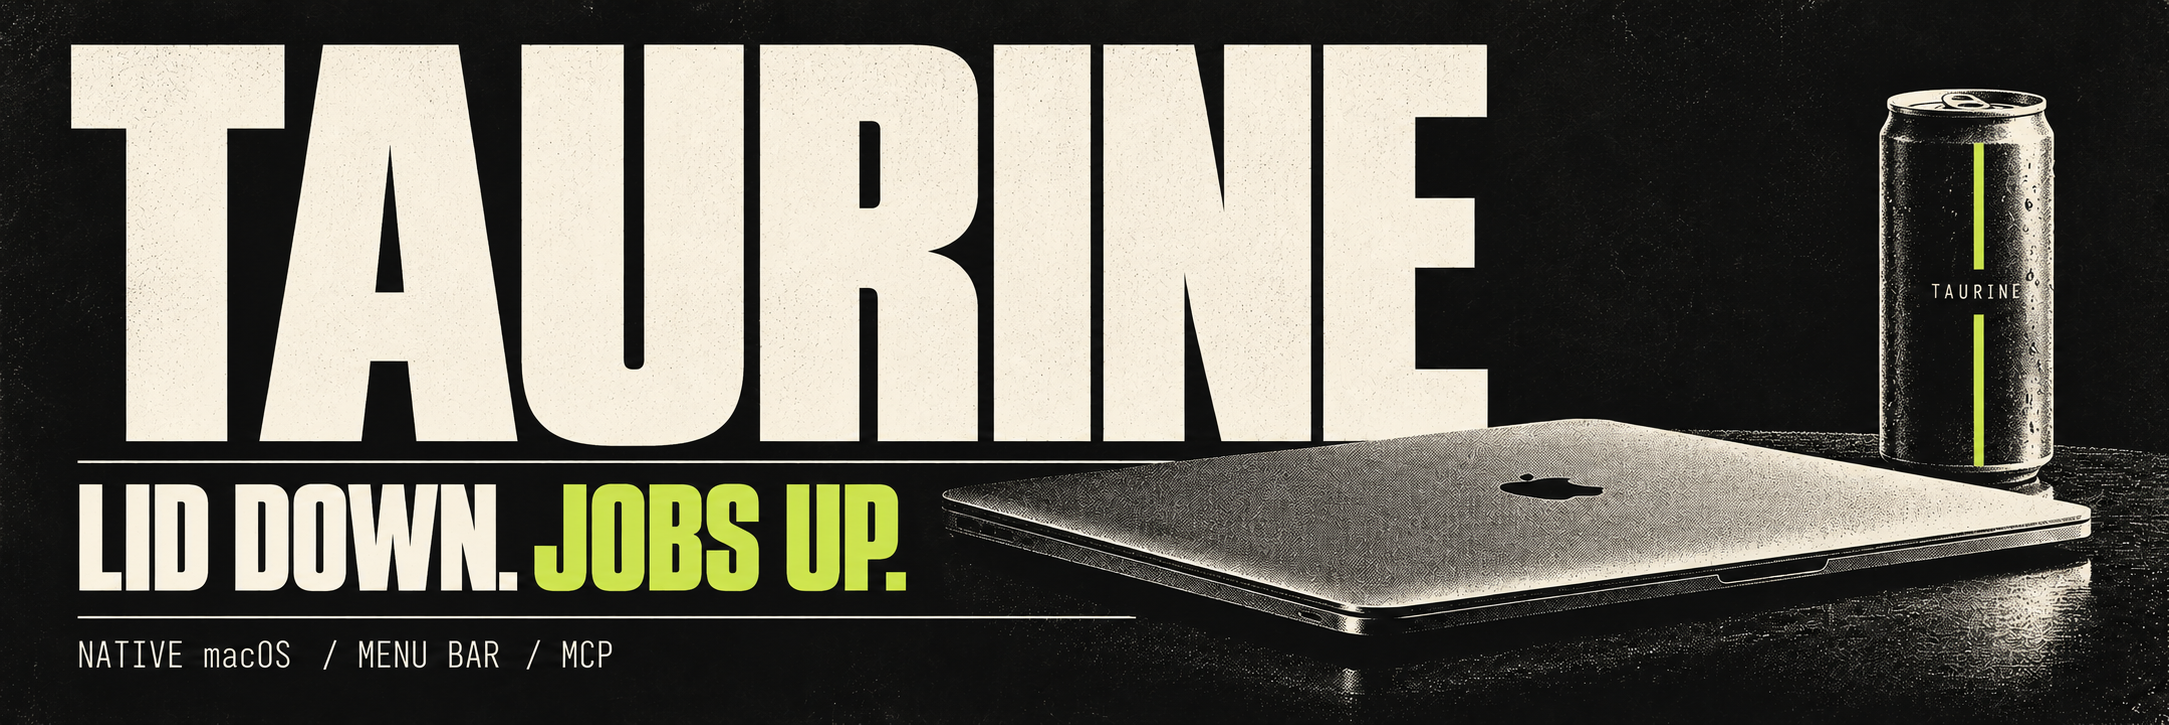
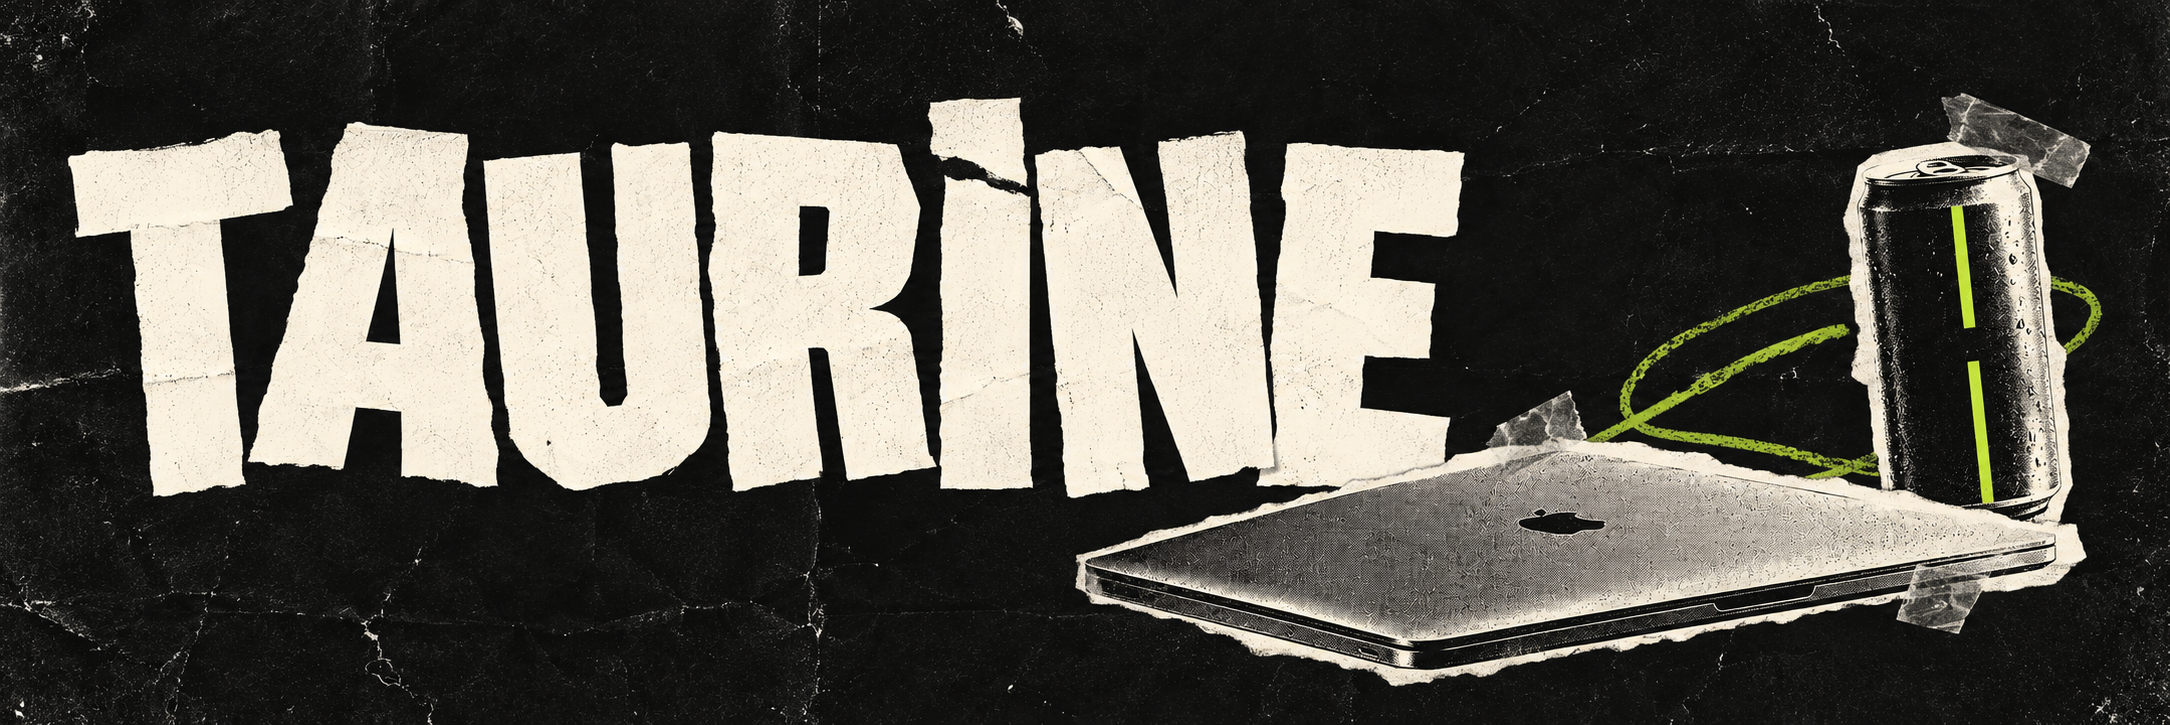
Loosen up the README and drop the tagline

diff --git a/README.md b/README.md
@@ -1,56 +1,29 @@
-<p align="center">
-  <img src="docs/assets/banner.png" alt="TAURINE — Lid down. Jobs up." width="100%" />
-</p>
+![taurine](docs/assets/banner.png)
 
-<p align="center">
-  <a href="https://github.com/christianfurr/taurine/actions/workflows/checks.yml"><img src="https://github.com/christianfurr/taurine/actions/workflows/checks.yml/badge.svg" alt="Build and tests" /></a>
-  <img src="https://img.shields.io/badge/macOS-13%2B-191919?style=flat-square&logo=apple&logoColor=F3F0DF" alt="macOS 13 or later" />
-  <img src="https://img.shields.io/badge/Swift-native-F05138?style=flat-square&logo=swift&logoColor=white" alt="Native Swift" />
-  <img src="https://img.shields.io/badge/MCP-3_tools-D3EE42?style=flat-square&labelColor=191919&color=D3EE42" alt="Three MCP tools" />
-  <img src="https://img.shields.io/badge/Codex-skill_ready-D3EE42?style=flat-square&labelColor=191919&color=D3EE42" alt="Codex skill included" />
-</p>
+[![checks](https://github.com/christianfurr/taurine/actions/workflows/checks.yml/badge.svg)](https://github.com/christianfurr/taurine/actions/workflows/checks.yml)
+![macOS 13+](https://img.shields.io/badge/macOS-13%2B-191919?style=flat-square&logo=apple&logoColor=white)
+![swift](https://img.shields.io/badge/swift-native-F05138?style=flat-square&logo=swift&logoColor=white)
+![mcp](https://img.shields.io/badge/mcp-included-D3EE42?style=flat-square&labelColor=191919)
 
-<p align="center">
-  <b>Your laptop gets to close. Your agents are still on the clock.</b><br />
-  A native macOS menu bar app for keeping your Mac awake with the lid down.<br />
-  Named after the energy drink ingredient. Built for the one-more-task industrial complex.
-</p>
+wanted to close my macbook and still have codex running on it. so i made this little menu bar app that keeps it awake.
 
-<p align="center">
-  <a href="https://github.com/christianfurr/taurine/releases/latest"><b>Download</b></a> ·
-  <a href="#build-it-yourself">Build it yourself</a> ·
-  <a href="#give-your-agent-the-switch">MCP + skill</a> ·
-  <a href="docs/OPERATIONS.md">Under the hood</a>
-</p>
+named after the stuff in energy drinks.
 
----
+click the lightning bolt, turn it on, approve the macOS prompt. then you can close the lid and keep working remotely. the screen can turn off and the mac can stay locked.
 
-## The whole pitch
+theres an mcp server and a skill too, so you can ask codex to turn it off when youre done.
 
-Close the lid. Leave the Mac on a desk. Keep the remote session and the long-running agent job alive.
+## get it
 
-Taurine lives in the menu bar. Click the lightning bolt, turn it on, and approve the macOS administrator prompt. A filled bolt and **On** appear after the sleep setting is applied and read back. Turn it off when you're done.
+[download for apple silicon](https://github.com/christianfurr/taurine/releases/download/v1.1.0/Taurine-macOS-arm64.zip)
 
-| What you get | What it does |
-| --- | --- |
-| **Lid-closed keep-awake** | Uses the system sleep control, beyond an ordinary idle-sleep assertion. |
-| **A real native app** | AppKit menu bar UI, Swift, and a small C watchdog. |
-| **Cleanup on exit** | Restores the previous sleep setting on off, quit, app crash, or socket disconnect. |
-| **A heartbeat** | Restores the previous setting if the app goes silent for 15 seconds. |
-| **A battery floor** | Stops at 10% or below while unplugged. |
-| **Agent controls** | Three MCP tools and a reusable Codex skill. Disable has a safe preview. |
+unzip it, move `Taurine.app` to Applications, open it. thats it.
 
-The display can turn off. The Mac can stay locked. Keep it ventilated, and turn Taurine off before putting the laptop in a bag.
+macOS 13+. the download is arm64, locally signed, and not notarized. if macOS blocks it, build from source. havent tested intel.
 
-## Get it running
+## or build it
 
-[Download the Apple Silicon build](https://github.com/christianfurr/taurine/releases/download/v1.1.0/Taurine-macOS-arm64.zip), unzip it, and move **Taurine.app** to Applications. Open it and look for the lightning bolt in the menu bar.
-
-The download is locally signed, **not notarized**. If macOS blocks it, build from source. Requires macOS 13 or later; the published binary is arm64. Intel builds have not been tested.
-
-### Build it yourself
-
-With Apple's Command Line Tools installed:
+needs Apple's Command Line Tools.
 
 ```sh
 git clone https://github.com/christianfurr/taurine.git
@@ -58,11 +31,11 @@ cd taurine
 ./scripts/build.sh
 ```
 
-The script prints the signed app's path and writes `build/Taurine.zip`. Build output uses the host architecture. Signing happens outside synced Documents folders because file-provider metadata can invalidate an app bundle.
+the script tells you where the app is and drops a zip in `build/Taurine.zip`.
 
-## Give your agent the switch
+## mcp stuff
 
-Install [Codex CLI](https://developers.openai.com/codex/cli/) and Python 3.11 or later. The menu bar app itself has no external packages; the optional MCP server uses the official Python MCP SDK.
+you need [Codex CLI](https://developers.openai.com/codex/cli/) and Python 3.11+ for this part. the app itself doesnt need python.
 
 ```sh
 python3 -m venv .venv
@@ -72,53 +45,40 @@ python -m pip install 'mcp>=2.1.1,<3'
 python scripts/install-automation.py
 ```
 
-The installer registers the local **taurine** MCP server, installs **$taurine-control**, and backs up the existing Codex configuration. Use a new Codex task to load the tools. The skill has a CLI fallback for tasks whose tool catalog was already loaded.
+that adds the `taurine` mcp server and `$taurine-control` skill. start a new codex task to pick up the tools. keep the venv around, the registration uses its python.
 
-> “Check Taurine status.”<br />
-> “Keep my Mac awake.”<br />
-> “Turn Taurine off and allow sleep.”
+then just ask it to check taurine, keep your mac awake, or turn taurine off and allow sleep.
 
-| Tool | Behavior |
-| --- | --- |
-| `taurine_status` | Reads the awake setting, app/watchdog state, lid, and battery. |
-| `taurine_enable` | Does nothing if already awake; otherwise requests enable and verifies the result. |
-| `taurine_disable` | Requires `confirm_allow_sleep=true`. Schedules a graceful quit after three seconds so the reply can reach you first. |
+- `taurine_status` checks the app, sleep setting, lid and battery
+- `taurine_enable` turns it on, or leaves it alone if its already on
+- `taurine_disable` needs `confirm_allow_sleep=true`. it waits 3 seconds before asking the app to quit so you have time to get the reply
 
-**Try the preview before the real thing:**
+heres a preview that **wont actually turn it off**:
 
 ```sh
-python "$HOME/.local/share/taurine/taurine-control/control.py" status
 python "$HOME/.local/share/taurine/taurine-control/control.py" disable \
   --confirm-allow-sleep --dry-run
 ```
 
-A new awake session can require administrator approval at the Mac. Disabling allows sleep and may suspend your tasks or disconnect remote access. It does not shut down the Mac, force sleep, or wake an already-sleeping machine. A scheduled request is reported as scheduled, not completed.
+turning it off lets the mac sleep. that can disconnect you and suspend whatever codex is doing, so dont do it halfway through something you need running. this doesnt shut down your mac or wake it back up later. starting a new awake session can still need admin approval on the mac.
 
-Existing Caffeine installations are recognized for compatibility. Installation does not restart an active legacy session; the Taurine app is installed separately for a later enable request.
+if youre using the old Caffeine version, the controls recognize that too. installing this doesnt restart an active old session.
 
-## The part where macOS has opinions
+## few things
 
-Taurine uses `pmset -a disablesleep 1` through a temporary privileged helper. The helper restores the value it found at startup. It does not install a persistent privileged service or change your other power preferences.
+- it stops at 10% battery when unplugged
+- it restores your previous sleep setting when you turn it off, quit, or the app crashes
+- the helper also restores it if the app stops sending heartbeats for 15 seconds
+- leave the mac somewhere it can breathe. dont put it in a bag while its awake
+- killing the privileged helper itself or losing power can leave sleep disabled. [recovery + other details](docs/OPERATIONS.md)
 
-If sleep was already disabled, turning Taurine off preserves that previous state. If the privileged helper itself is killed or the Mac loses power before restoration, the setting can persist. To restore normal sleep manually:
-
-```sh
-sudo pmset -a disablesleep 0
-```
-
-That command allows sleep immediately. Do not run it while you need a lid-closed session to keep working.
-
-## Checks with receipts
+## tests
 
 ```sh
-./scripts/test.sh                 # Watchdog protocol, ASan + UBSan
-python3 tests/automation_test.py  # Automation with all writes mocked
+./scripts/test.sh
+python3 tests/automation_test.py
 ```
 
-The GitHub workflow builds and verifies both native binaries and runs the isolated tests. It never enables or disables sleep on the runner.
+19 checks, including the watchdog and the automation previews. github runs them too.
 
-A live Mac also reported its lid closed and system sleep disabled while remote commands continued to execute. MCP status, already-on enable, disable preview, and rejection of an unconfirmed disable were verified without restarting the active app or watchdog. Real remote disable and a fresh privileged enable have not been exercised end to end. See [verification details](docs/OPERATIONS.md#verification).
-
----
-
-<p align="center"><sub>Lid down. Jobs up. Energy drink sold separately.</sub></p>
+also checked the lid-closed state on a real mac while remote commands kept working. checked mcp status and previews without restarting the running app. havent tested an actual remote disable or a fresh privileged enable end to end yet. [more detail if you want it](docs/OPERATIONS.md#verification)

diff --git a/docs/assets/banner-prompt.md b/docs/assets/banner-prompt.md
@@ -1,8 +1,7 @@
 # Banner artwork
 
-Generated with the built-in image generation tool, then edited for the Taurine name.
-The final PNG is `banner.png` in this directory.
+Made with the built-in image generation tool. Final image: `banner.png`.
 
-## Final edit prompt
+## Edit prompt
 
-Edit this GitHub README banner into the final TAURINE brand. Preserve the same wide 3:1 composition, charcoal and warm off-white industrial print style, fine grain and halftone, acid-lime accents, closed laptop, and technical rules. Replace the large CAFFEINE heading with the exact word "TAURINE", professionally kerned and scaled to fill the original headline width. Keep the exact secondary line "LID DOWN. JOBS UP." and footer "NATIVE macOS / MENU BAR / MCP". Replace the espresso cup and saucer with a tough, unbranded slim energy drink can in the same area on the right, rendered in the same off-white halftone illustration style; the can has a minimal acid-lime vertical stripe and the tiny word "TAURINE", without any existing energy drink brand logos. Remove the steam from the cup since this is now a cold energy drink can. Everything should look like one coherent printed developer utility poster, not patched text. No extra text, gradients, neon glow, fake badges or watermarks.
+Edit this README banner for a small personal project, less polished and more relaxed. Keep the wide 3:1 format, dark paper background, off-white and acid-lime palette, closed laptop and energy drink can, and the name TAURINE. Remove ALL text except the single project name "TAURINE": remove the entire slogan row and the entire technical footer. Do not add any new slogan, subtitle, tagline, joke, annotation text or marketing copy. Recompose to use that freed space. Make the TAURINE letters slightly uneven like hand-cut paper pasted onto a garage zine, not a perfect corporate wordmark; keep the name clear and readable. Treat the laptop and can as roughly cut-out photocopied stickers, with a couple of crooked tape scraps, one loose lime scribble and casually misaligned edges. Keep the composition simple with open space, not a dense punk poster or fake product advertisement. The vibe is a friend's weekend coding project, slightly messy and chill, not a professional startup launch. No extra words, badges, gradients, glow, polished technical grids, or watermarks.
